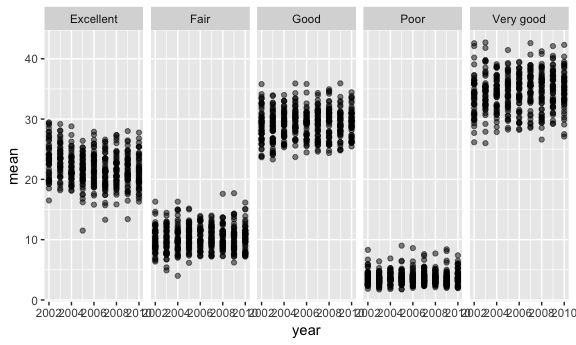
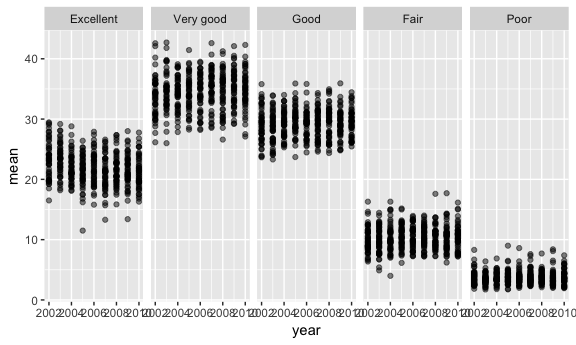
Question 3 very roughly finished!

diff --git a/p8105_hw3.md b/p8105_hw3.md
@@ -13,23 +13,24 @@ brfss_data = brfss_smart2010 %>%
   separate(locationdesc, into = c("remove", "county"), sep = " - ") %>%
   select(-c(remove)) %>%
   rename(state = locationabbr) %>%
-  mutate(response = factor(response))
-  
+  mutate(response = factor(response, 
+                           levels = c("Excellent", "Very good", "Good", "Fair", "Poor")))
+
 
 brfss_data %>%
   filter(year == 2002) %>%
   distinct(county, .keep_all = T) %>%
   group_by(state) %>%
   summarize(n = n()) %>%
-  filter(n == 7)
+  filter(n == 7) %>%
+  knitr::kable()
 ```
 
-    ## # A tibble: 3 x 2
-    ##   state     n
-    ##   <chr> <int>
-    ## 1 CT        7
-    ## 2 FL        7
-    ## 3 MA        7
+| state |    n|
+|:------|----:|
+| CT    |    7|
+| FL    |    7|
+| MA    |    7|
 
 ``` r
 brfss_data %>% 
@@ -46,35 +47,17 @@ brfss_data %>%
 ``` r
 brfss_data %>%
   filter(year %in% c(2002, 2006, 2010), state == "NY", response == "Excellent") %>%
-  group_by(year, county) %>%
+  group_by(year) %>%
   summarize(mean = mean(data_value, na.rm = T),
-            sd = sd(data_value, na.rm = T))
+            sd = sd(data_value, na.rm = T)) %>%
+  knitr::kable()
 ```
 
-    ## # A tibble: 20 x 4
-    ## # Groups:   year [?]
-    ##     year county              mean    sd
-    ##    <int> <chr>              <dbl> <dbl>
-    ##  1  2002 Kings County        19.5    NA
-    ##  2  2002 Nassau County       26.9    NA
-    ##  3  2002 New York County     27.9    NA
-    ##  4  2002 Queens County       18.8    NA
-    ##  5  2002 Suffolk County      27.1    NA
-    ##  6  2006 Kings County        19.2    NA
-    ##  7  2006 Nassau County       21.7    NA
-    ##  8  2006 New York County     28.8    NA
-    ##  9  2006 Queens County       18.9    NA
-    ## 10  2006 Suffolk County      20.6    NA
-    ## 11  2006 Westchester County  26      NA
-    ## 12  2010 Bronx County        17.6    NA
-    ## 13  2010 Erie County         17.2    NA
-    ## 14  2010 Kings County        22.4    NA
-    ## 15  2010 Monroe County       22.4    NA
-    ## 16  2010 Nassau County       26.2    NA
-    ## 17  2010 New York County     25.8    NA
-    ## 18  2010 Queens County       21.2    NA
-    ## 19  2010 Suffolk County      24.6    NA
-    ## 20  2010 Westchester County  26.9    NA
+|  year|      mean|        sd|
+|-----:|---------:|---------:|
+|  2002|  24.04000|  4.486424|
+|  2006|  22.53333|  4.000833|
+|  2010|  22.70000|  3.567212|
 
 ``` r
 brfss_data %>%
@@ -107,18 +90,17 @@ instacart %>%
   group_by(aisle) %>%
   count(aisle) %>%
   arrange(-n) %>%
-  head(5)
+  head(5) %>%
+  knitr::kable()
 ```
 
-    ## # A tibble: 5 x 2
-    ## # Groups:   aisle [5]
-    ##   aisle                           n
-    ##   <chr>                       <int>
-    ## 1 fresh vegetables           150609
-    ## 2 fresh fruits               150473
-    ## 3 packaged vegetables fruits  78493
-    ## 4 yogurt                      55240
-    ## 5 packaged cheese             41699
+| aisle                      |       n|
+|:---------------------------|-------:|
+| fresh vegetables           |  150609|
+| fresh fruits               |  150473|
+| packaged vegetables fruits |   78493|
+| yogurt                     |   55240|
+| packaged cheese            |   41699|
 
 ``` r
 instacart %>%
@@ -129,7 +111,7 @@ instacart %>%
   coord_flip()
 ```
 
-<img src="p8105_hw3_files/figure-markdown_github/unnamed-chunk-1-1.png" width="90%" />
+<img src="p8105_hw3_files/figure-markdown_github/q2-1.png" width="90%" />
 
 ``` r
 instacart %>%
@@ -180,3 +162,41 @@ instacart %>%
 | Friday     |          15.21739|          11.55172|
 | Saturday   |          12.26316|          12.78431|
 | Sunday     |          13.83333|          11.93750|
+
+Question 3
+----------
+
+``` r
+ny_noaa_clean = ny_noaa %>%
+  janitor::clean_names() %>%
+  separate(date, into = c("year", "month", "day"), sep = "-") %>%
+  mutate(tmax = as.integer(tmax), 
+         tmin = as.integer(tmin))
+  
+
+ny_noaa_clean %>%
+  count(snow) %>%
+  top_n(5) %>%
+  knitr::kable()
+
+ny_noaa_clean %>%
+  filter(month %in% c("01", "07")) %>%
+  group_by(month, id, year) %>%
+  summarize(mean_tmax = mean(tmax, na.rm = TRUE)) %>%
+  ggplot(aes(x = id, y = mean_tmax)) +
+    geom_point() +
+    facet_grid(. ~ month)
+
+
+tmax_vs_tmin = ny_noaa_clean %>%
+  ggplot(aes(x = tmax, y = tmin)) +
+  geom_point()
+
+snow_per_year = ny_noaa_clean %>%
+  filter(snow %in% c(1:99)) %>%
+  group_by(year) %>%
+  ggplot(aes(x = snow)) +
+  geom_histogram()
+
+tmax_vs_tmin + snow_per_year
+```
